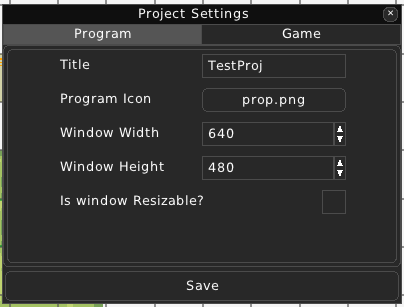
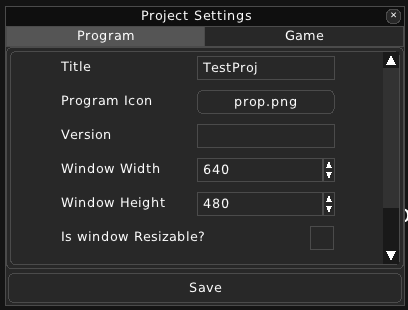
Bulgarian translation of new keys

diff --git a/docs/guide/projectsettings.rst b/docs/guide/projectsettings.rst
@@ -14,6 +14,8 @@ There are two categories in Project Settings:
 
     * **Title** - The Window's title.
 
+    * **Version** - Version of the game.
+
     * **Program Icon** - The icon of the window.
 
     * **Window Width** - Width of the window.
@@ -21,6 +23,8 @@ There are two categories in Project Settings:
     * **Window Height** - Height of the window.
 
     * **Is Window Resizeable** - Whether the window will be resizeable.
+
+    * **Target FPS** - The frames per second that will be targeted.
 
 * **Game**:
 
